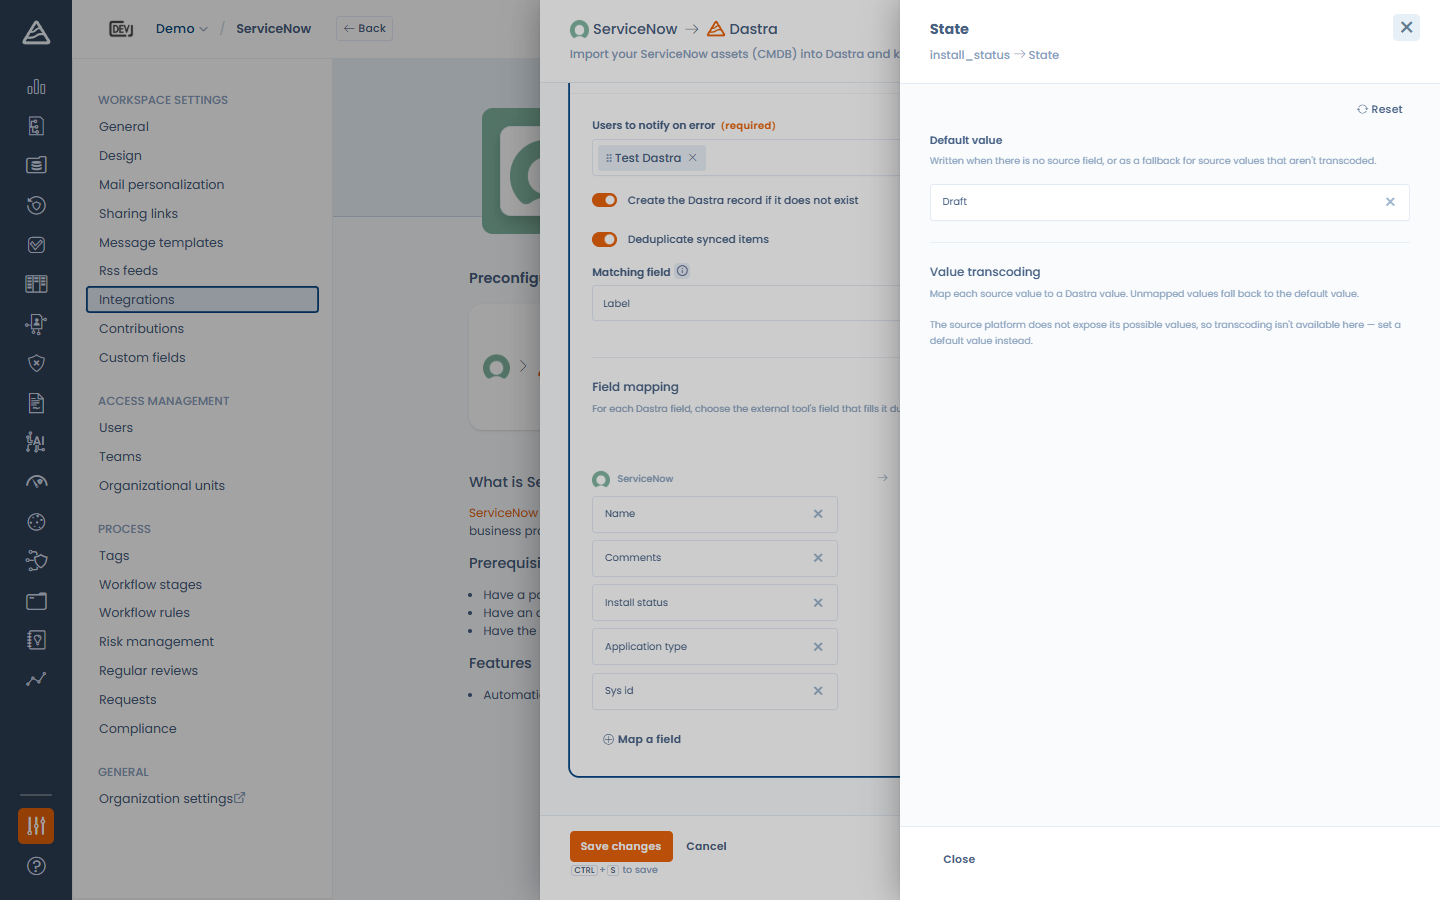
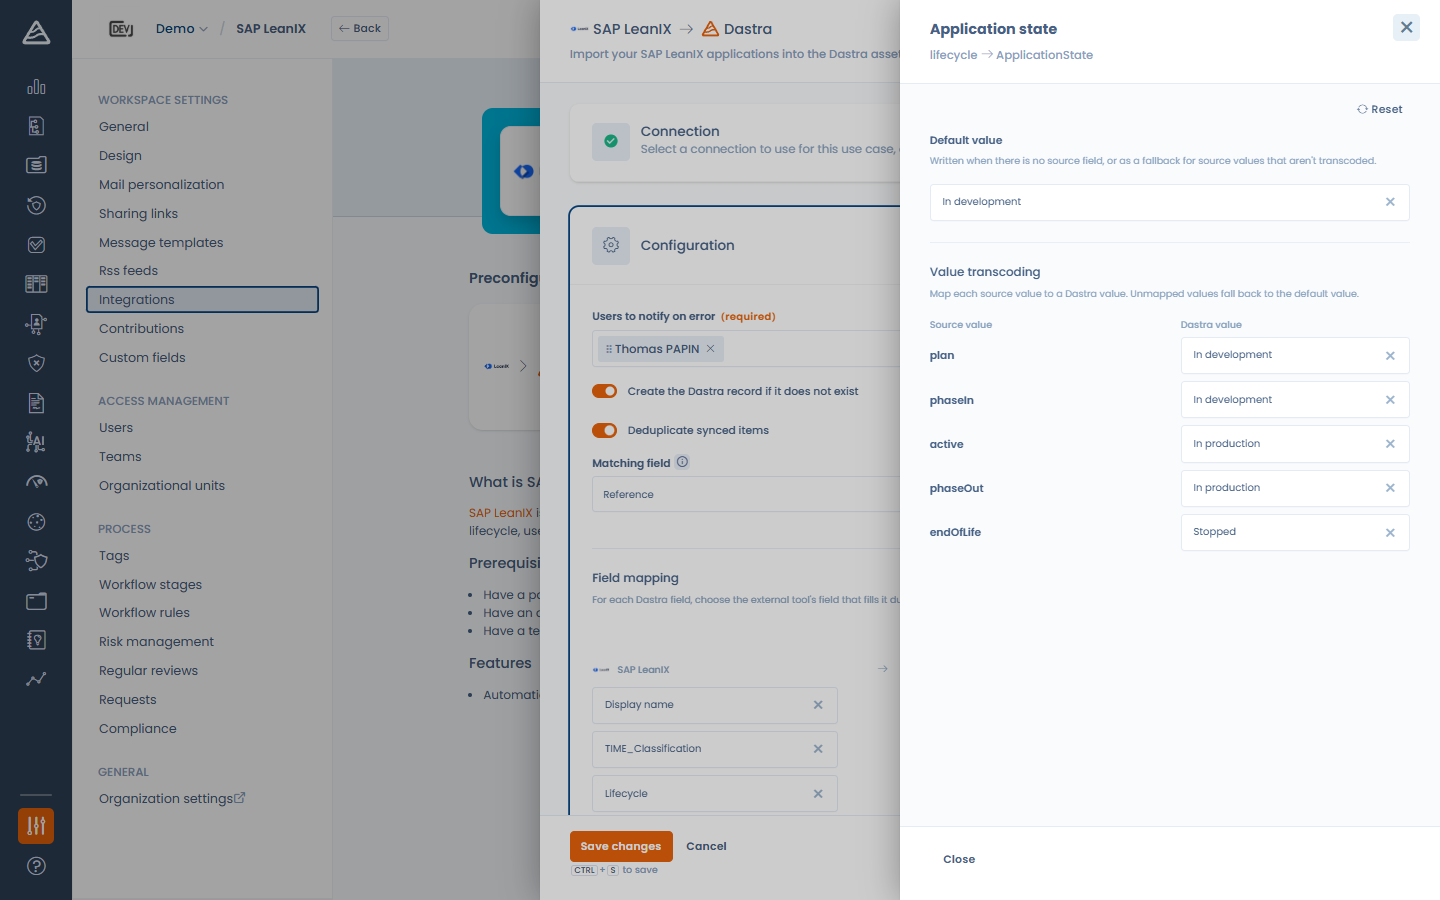
Add the LeanIX, Jira and Teams card screenshots
- sap-leanix-config: real configuration with a live-discovered custom
  field (TIME_Classification) in the mapping
- field-mapping-advanced retaken on LeanIX lifecycle -> Application
  state: full value-transcoding table with a default value
- field-mapping-default-date (new): relative date default (in 30 days)
  on the Jira Deadline field, referenced from the concepts pages
- jira-config, jira-state-mappings, jira-webhook: real configuration;
  the webhook secret is masked and the host normalized
- msteams-card: workflow notification card rendered in Teams

Still missing: teams-workflows-app (Teams client, manual capture).

diff --git a/fr/api-references/integrations/connexions-et-mapping-des-champs.md b/fr/api-references/integrations/connexions-et-mapping-des-champs.md
@@ -92,6 +92,10 @@ Chaque ligne dispose d'un panneau **Avancé** avec deux options :
 
 <figure><img src="../../.gitbook/assets/field-mapping-advanced.png" alt=""><figcaption><p>Valeur par défaut et transcodage des valeurs</p></figcaption></figure>
 
+Pour les champs de type date, la valeur par défaut peut être dynamique — résolue au moment de la création de l'enregistrement :
+
+<figure><img src="../../.gitbook/assets/field-mapping-default-date.png" alt=""><figcaption><p>Une date par défaut relative (ici : dans 30 jours) sur l'échéance de la demande</p></figcaption></figure>
+
 #### Suggestions par IA
 
 Si l'assistant IA est activé sur votre compte, le bouton **Suggérer par IA** propose un mapping complet (et chaque ligne a son propre bouton de suggestion). Les suggestions n'écrasent jamais les champs déjà mappés et vous sont toujours soumises pour relecture avant l'enregistrement.

diff --git a/en/api-references/integrations/connections-and-field-mapping.md b/en/api-references/integrations/connections-and-field-mapping.md
@@ -92,6 +92,10 @@ Each row has an **Advanced** panel with two options:
 
 <figure><img src="../../.gitbook/assets/field-mapping-advanced.png" alt=""><figcaption><p>Default value and value transcoding</p></figcaption></figure>
 
+For date fields, the default value can be dynamic — resolved when the record is created:
+
+<figure><img src="../../.gitbook/assets/field-mapping-default-date.png" alt=""><figcaption><p>A relative default date (here: in 30 days) on the request deadline</p></figcaption></figure>
+
 #### AI suggestions
 
 If the AI assistant is enabled on your account, the **Suggest with AI** button proposes a full mapping (and each row has its own suggestion button). Suggestions never overwrite fields you already mapped, and are always submitted for your review before saving.
